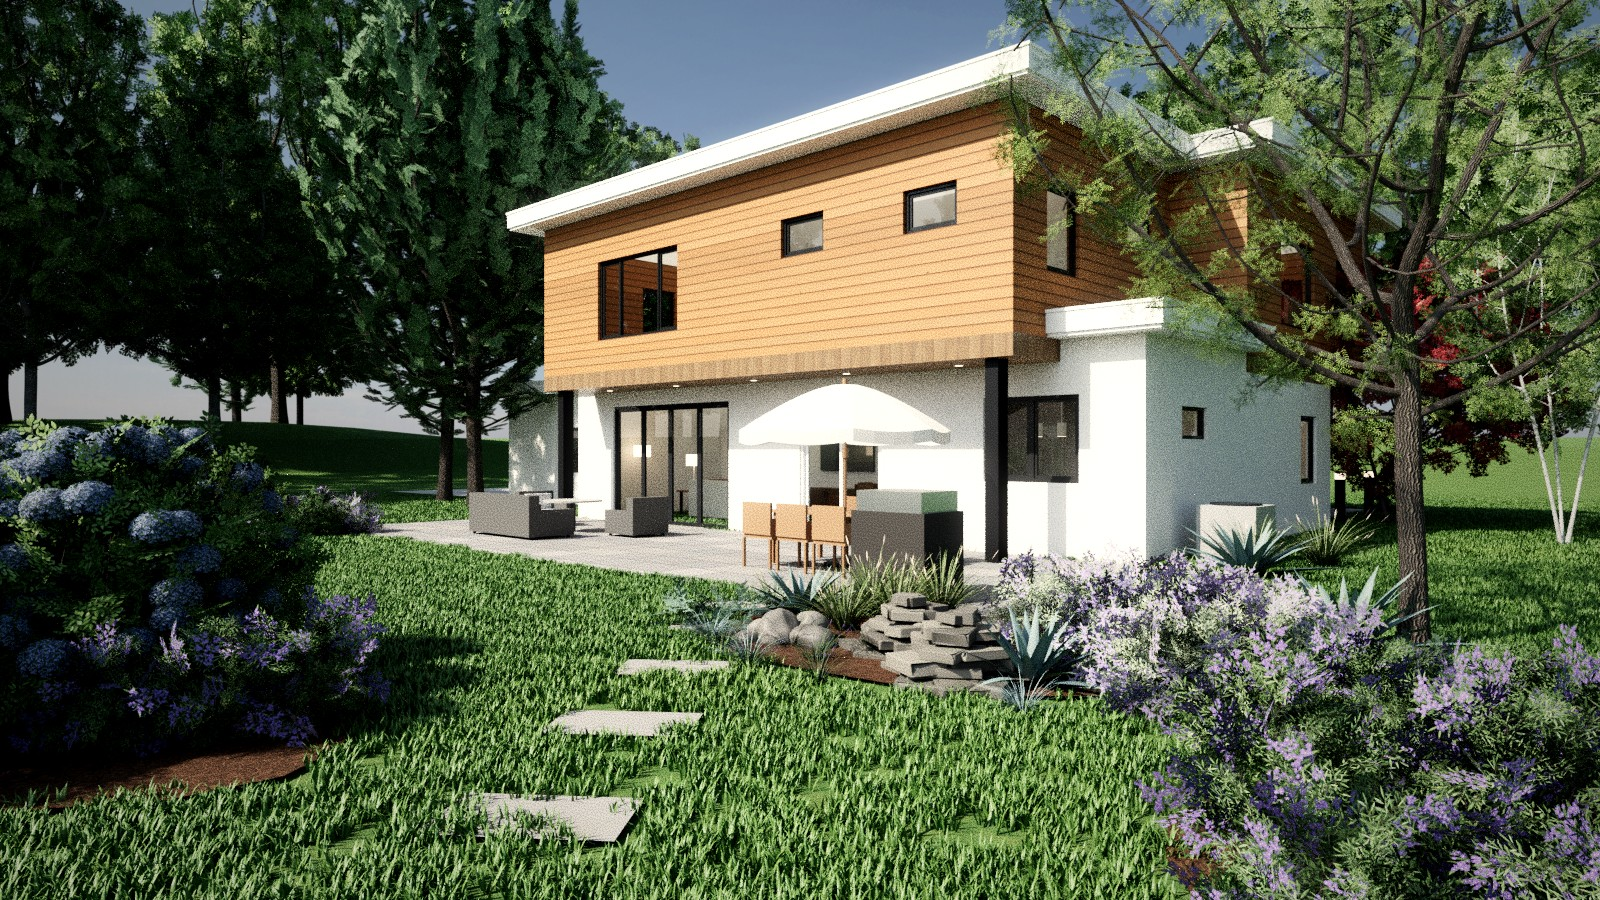
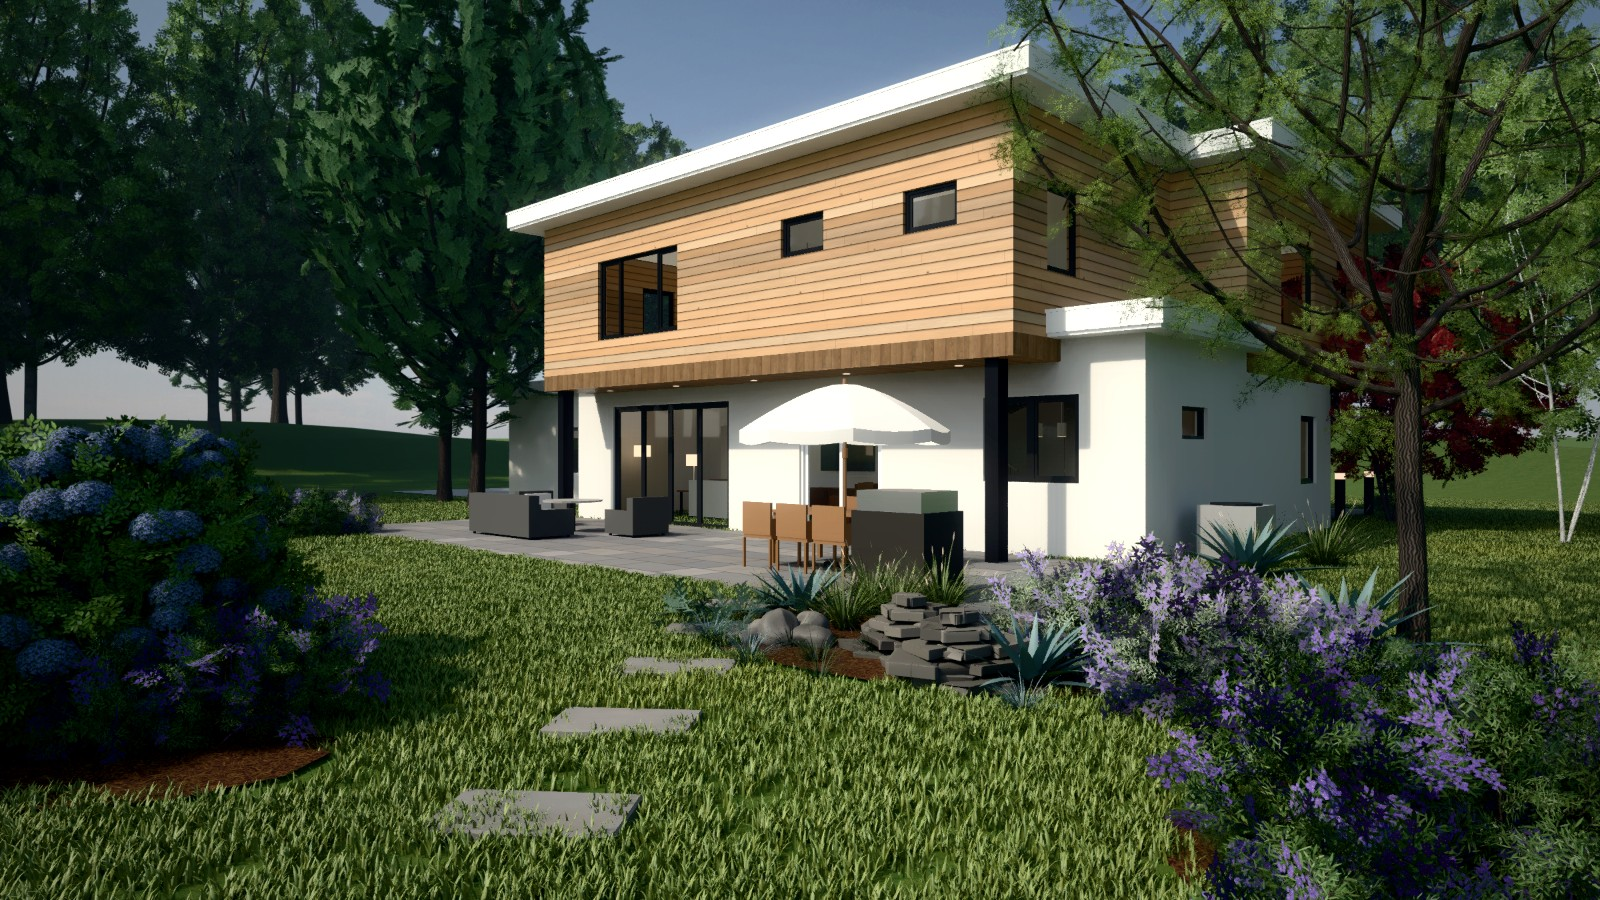
feat(sample): denoised, supersampled hero rendering on the Cover Sheet (ADR-102)

diff --git a/docs/DECISIONS.md b/docs/DECISIONS.md
@@ -3789,3 +3789,65 @@ coursing along a line".
   without lights thinning the samples.
 - **Dev aid:** the autorender settings take `matchSun`, `rotation` and `interiorGlow`;
   `background` takes `sky:<poly haven id>`.
+
+## ADR-102 Clean renders: guided denoiser, Neutral tone, haze, supersampling — Accepted (2026-10-03)
+- **The owner's brief:** bring raw renders closer to the reference (photoreal, clean,
+  warm). Every fix is a toggleable setting for A/B testing. In priority order:
+  1. noise
+  2. resolution and anti-aliasing
+  3. tone mapping
+  4. lighting and sky
+  5. cedar
+  6. stucco
+  7. glazing
+  8. bevels
+  9. grass
+- **1 Noise — a guided denoiser written here** (app render/denoise.ts). OIDN and OptiX
+  are major dependencies needing the owner's approval; this does the same job without
+  them.
+  - A G-buffer is rasterized in the render's own WebGL context: albedo (textures and
+    vertex colours, leaves cut out by alpha) plus view normal and depth. Glass is left
+    out, so the room behind guides.
+  - The trace is divided by the albedo, so only lighting is filtered. Fireflies are
+    clamped to their neighbours' brightest.
+  - Five à-trous passes (steps 1–16 px) are edge-stopped by normal, relative depth and
+    log-luminance, then remultiplied by the albedo.
+  - Wood grain, board lines, paver joints and leaves keep their detail. At 64 samples
+    the stucco and cedar come out clean.
+  - Settings: `denoiser` is "guided" by default, or "blur" for the old bilateral one;
+    `denoiseStrength`.
+- **2 Supersampling:** the Quality presets are now Draft 32, Medium 128, High 512, Final
+  512 at 1.5× and Best 1024 at 2×. The trace renders larger and is drawn down with
+  high-quality smoothing. Setting: `supersample`.
+- **3 Tone and exposure:**
+  - Khronos PBR Neutral tone mapping (`tone: "neutral"`, the new default) keeps hues
+    and whites without ACES's saturation or AgX's wash.
+  - Exposure is shown in EV, ±2 in thirds. The setting `ev` takes stops.
+- **4 Lighting:**
+  - `sunScale` scales a library sky's sun against its sky (0.4 for the hero), opening
+    the shade as a hazier day does, so whites needn't clip for the shade to read. A bug
+    fixed while building it: a copied HDR has to keep the loader's `flipY`, or the sun
+    goes underground.
+  - Aerial haze fades surfaces toward the horizon's radiance with depth from the
+    G-buffer (`haze`, metres to 63%, default 2500; 0 is off).
+  - Contact shadows and bounce light come from the path tracer itself (5 diffuse
+    bounces), so no AO pass was added.
+- **5–6 Materials:**
+  - Cedar is a natural tan stain (early [204,162,120], late [166,124,88]) with wider
+    per-board variation (spread 0.26).
+  - Stucco is a warm off-white, about 0.7 reflectance, roughness 0.88.
+  - The lawn's albedo is less saturated and more yellow, matching the reference's
+    sunlit turf (about 88,101,54 on screen).
+- **9 Grass:**
+  - Turf grows 25 mm over the edges of paving and stones.
+  - 4.5% of blades are dry.
+  - Lawn density scales with height squared, so shorter turf still covers the ground.
+  - The render's grass field is sized from the lawn's own density. It had been sized for
+    70/m² and was thinning out evenly to fit its cap.
+- **8 Bevels:** ground regions in a slab material (stepping stones, treads) are stones
+  50 mm proud with a 10 mm chamfered top edge, their sides running below grade. The
+  fascia keeps its stepped profile; bevelling it is still to do.
+- **7 Glazing:** the glass was already Fresnel (IOR 1.52), and interiors read through it
+  by the ceiling glow (ADR-101). Recessed frames and returns are still to do.
+- **Not done:** an AI enhancement pass, the furniture weave and teak textures, an
+  anisotropic grill, depth of field, and fascia and slab-edge bevels.

diff --git a/CLAUDE.md b/CLAUDE.md
@@ -156,6 +156,8 @@ Read these before writing code:
 - Detail Level (ADR-067): studio-core `DetailLevel` (View `detail_level`, `for_scale`),
   `compound::core_boundaries`; studio-regen `WallSolid.core`; studio-views `Builder.detail`,
   `windows::shown_at`; components/DetailLevelToggle.tsx; shortcuts DC / DD / DF.
+- Clean renders (ADR-102): render/denoise.ts guided à-trous denoiser (albedo/normal/depth G-buffer, haze); pathtrace
+  `toneMappingOf` (Neutral), Quality presets with supersampling; backgrounds `scaleSun`/`horizonColor`; plants `slab_mesh`.
 - Sky Library and turf (ADR-101): studio-core `skies` (31 Poly Haven pure skies), app sky_library/sky_file, render/backgrounds.ts
   (hdrSun, matchSunRotation, fillGround); grass.ts arched lawn blades + far LOD; plants.rs mopheads, outward leaf winding;
   ffe.rs `canopy` umbrella (`Part::Tris`); pathtrace `interiorGlow`.
